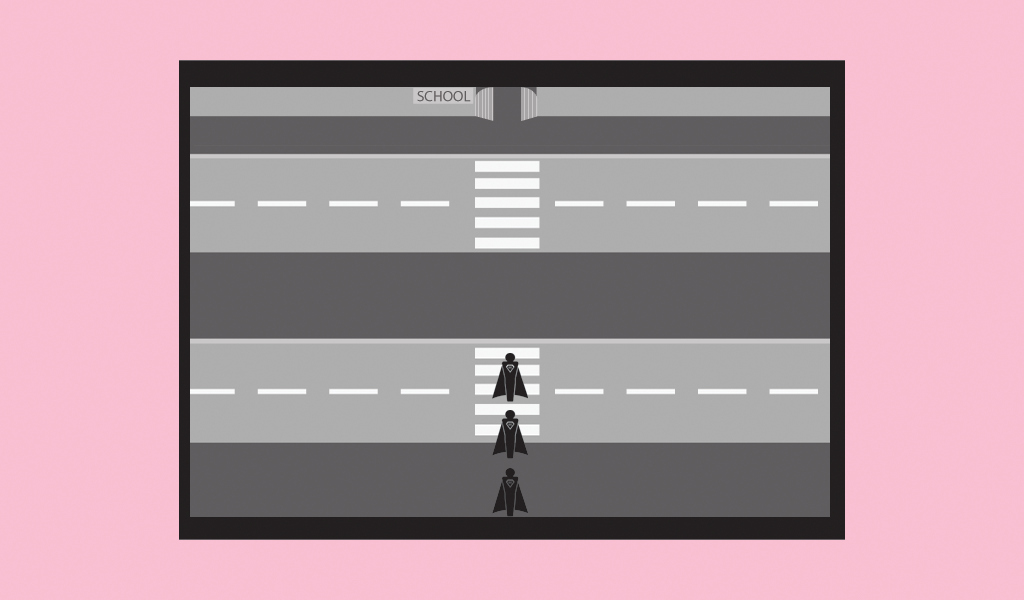
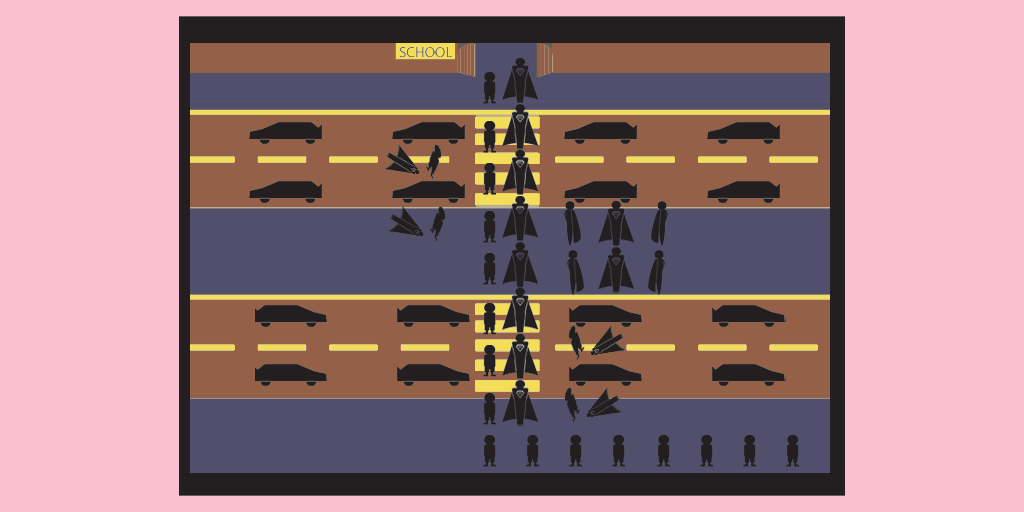
position des voitures, du personnage et des enfants correctement. Bonne taille du canvas prenant en compte le menu de la tablette.

diff --git a/variables.js b/variables.js
@@ -1,6 +1,6 @@
 var canvas = document.getElementById("canvas");
 canvas.width = 1024;
-canvas.height = 600;
+canvas.height = 512;
 var ctx = canvas.getContext('2d');
 if (navigator.language == "fr") { var langue = "fr"} else { var langue = "en"}
 
@@ -8,48 +8,57 @@ mode = "menu"; // chargement || menu || jeu;
 
 var characterPosition = 0;
 var characterArray = new Array(
-{x: 490, y: 410},
-{x: 490, y: 350},
-{x: 490, y: 300},
-{x: 490, y: 250},
-{x: 490, y: 200},
-{x: 490, y: 150},
-{x: 490, y: 100}
+{x: 500, y: 380},
+{x: 500, y: 330},
+{x: 500, y: 285},
+{x: 500, y: 240},
+{x: 500, y: 190},
+{x: 500, y: 145},
+{x: 500, y: 100},
+{x: 500, y: 55}
 )
 var carArray = new Array(
 [
-{etat: 0, x: 280, y:345},
-{etat: 0, x: 420, y:345},
-{etat: 0, x: 560, y:345},
-{etat: 0, x: 700, y:345}
+{etat: 0, x: 250, y:360},
+{etat: 0, x: 390, y:360},
+{etat: 0, x: 560, y:360},
+{etat: 0, x: 705, y:360}
 ],
 [
-{etat: 0, x: 280, y:400},
-{etat: 0, x: 420, y:400},
-{etat: 0, x: 560, y:400},
-{etat: 0, x: 700, y:400}
+{etat: 0, x: 250, y:300},
+{etat: 0, x: 390, y:300},
+{etat: 0, x: 560, y:300},
+{etat: 0, x: 705, y:300}
 ],
 [
-{etat: 0, x: 280, y:210},
-{etat: 0, x: 420, y:210},
-{etat: 0, x: 560, y:210},
-{etat: 0, x: 700, y:210}
+{etat: 0, x: 250, y:180},
+{etat: 0, x: 390, y:180},
+{etat: 0, x: 560, y:180},
+{etat: 0, x: 705, y:180}
 ],
 [
-{etat: 0, x: 280, y:155},
-{etat: 0, x: 420, y:155},
-{etat: 0, x: 560, y:155},
-{etat: 0, x: 700, y:155}
+{etat: 0, x: 250, y:120},
+{etat: 0, x: 390, y:120},
+{etat: 0, x: 560, y:120},
+{etat: 0, x: 705, y:120}
 ]
 )
 
 var childrenArray = new Array(
-{etat: 0, x: 400, y: 400},
-{etat: 0, x: 350, y: 400},
-{etat: 0, x: 300, y: 400},
-{etat: 0, x: 250, y: 400},
-{etat: 0, x: 250, y: 350},
-{etat: 0, x: 250, y: 300},
-{etat: 0, x: 250, y: 250},
-{etat: 0, x: 250, y: 200}
+{etat: 0, x: 782, y: 435},
+{etat: 0, x: 740, y: 435},
+{etat: 0, x: 695, y: 435},
+{etat: 0, x: 655, y: 435},
+{etat: 0, x: 610, y: 435},
+{etat: 0, x: 565, y: 435},
+{etat: 0, x: 522, y: 435},
+{etat: 0, x: 480, y: 435},
+{etat: 0, x: 480, y: 390},
+{etat: 0, x: 480, y: 345},
+{etat: 0, x: 480, y: 300},
+{etat: 0, x: 480, y: 255},
+{etat: 0, x: 480, y: 210},
+{etat: 0, x: 480, y: 160},
+{etat: 0, x: 480, y: 120},
+{etat: 0, x: 480, y: 70}
 )

diff --git a/fonctions.js b/fonctions.js
@@ -22,20 +22,23 @@ function drawChargement()
 
 function drawAll()
 	{
+		ctx.globalAlpha= 0.5;
+		ctx.fillStyle = "rgb(255, 0, 0)";
+		ctx.fillRect(characterArray[characterPosition].x, characterArray[characterPosition].y, 40, 50);
+		ctx.fillStyle = "rgb(0,0,0)";
+
 		for (i= 0; i< carArray.length; i++)
 			{
 				for (e=0; e<carArray[i].length; e++)
 					{
-						ctx.fillRect(carArray[i][e].x, carArray[i][e].y, 40, 40);
+						ctx.fillRect(carArray[i][e].x, carArray[i][e].y, 80, 30);
 					}
 			}
 		for (i=0; i< childrenArray.length; i++)
 			{
-				ctx.fillRect(childrenArray[i].x, childrenArray[i].y, 20, 20);
+				ctx.fillRect(childrenArray[i].x, childrenArray[i].y, 20, 30);
 			}
-		ctx.fillStyle = "rgb(255, 0, 0)";
-		ctx.fillRect(characterArray[characterPosition].x, characterArray[characterPosition].y, 40, 50);
-		ctx.fillStyle = "rgb(0,0,0)";
+		
 	}
 function addLimit(variable, valeur, limite)
 {
